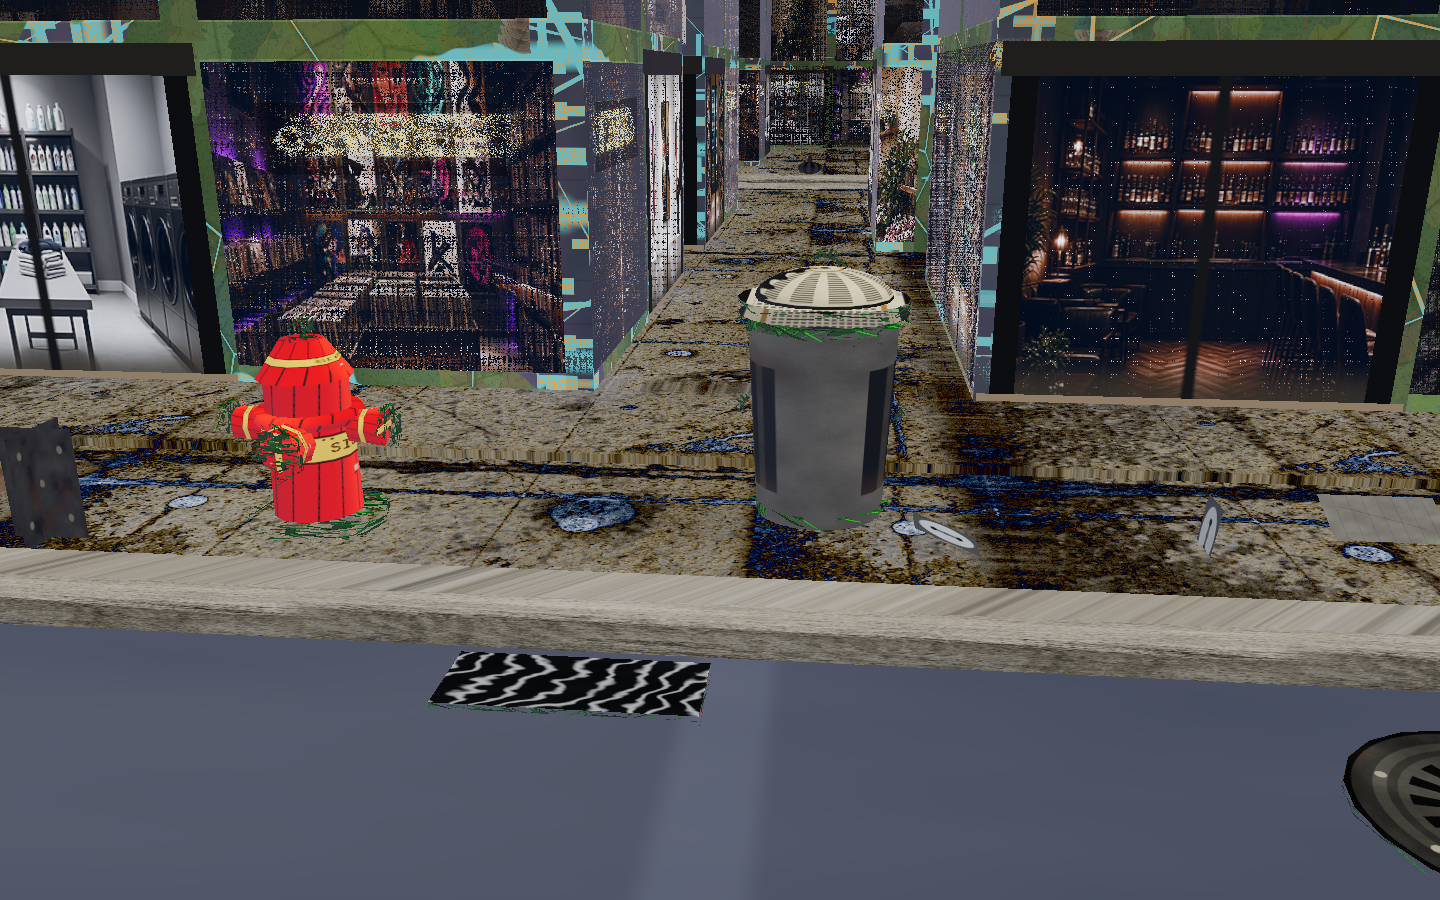
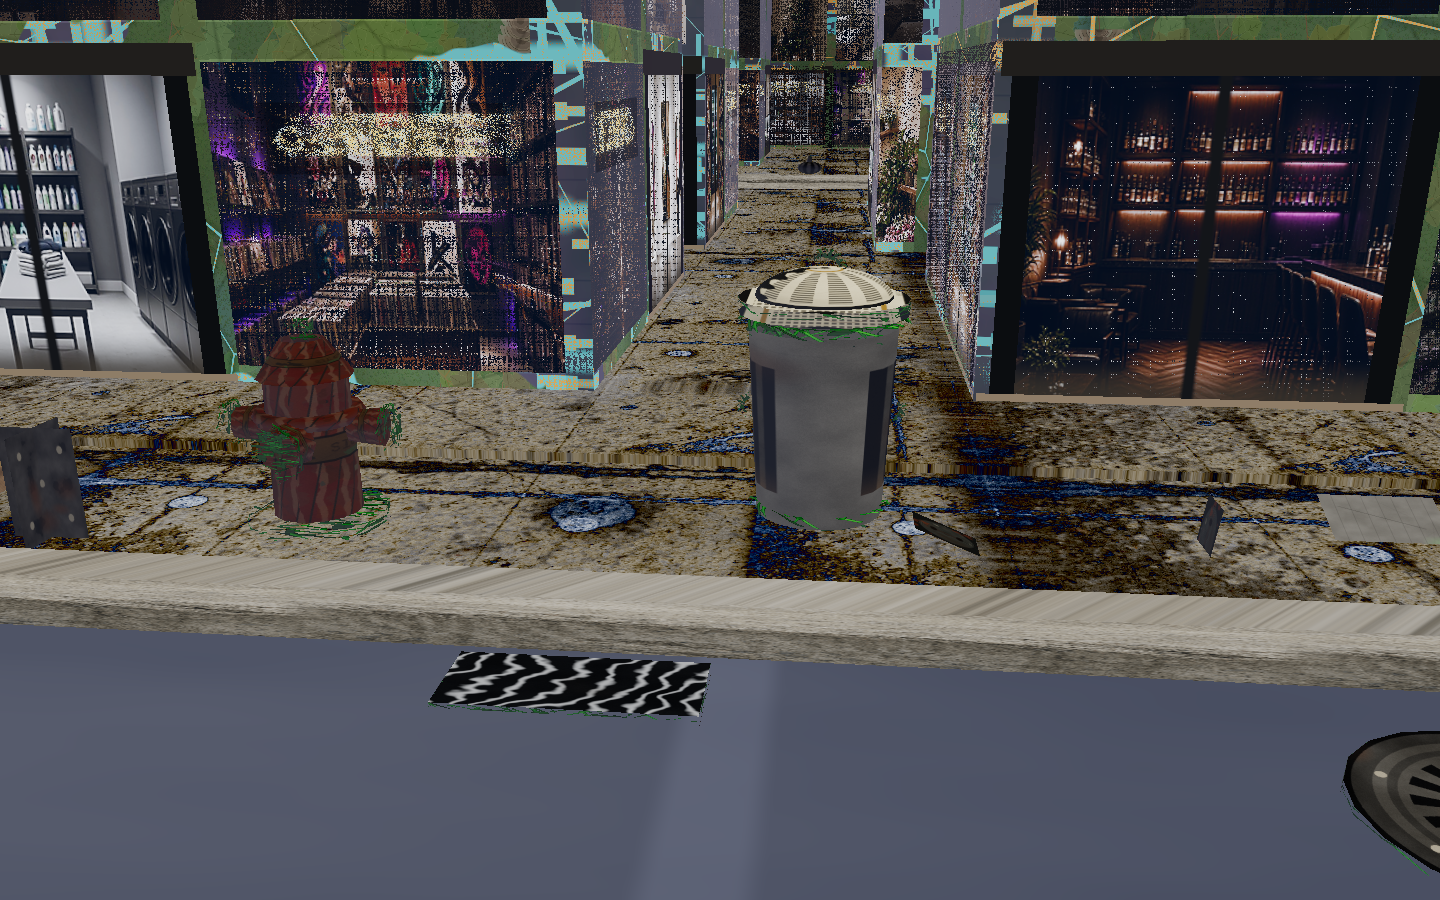
Harbor: weather the can and hydrant atlas cells
Dull zinc, faded red, rust bloom, chips, salt, and street dirt on the shared sheet. Silhouettes stay. Quay crate, iron, and deck are untouched.

diff --git a/harbor.html b/harbor.html
@@ -7177,7 +7177,7 @@ streetClutter = mountStreetClutter({
   world: physWorld,
   CANNON,
   enabled: streetClutterOn,
-  atlasUrl: new URL('street-clutter-atlas.png' + (location.protocol === 'file:' ? '' : '?v=clutter2'), atlasBase).href,
+  atlasUrl: new URL('street-clutter-atlas.png' + (location.protocol === 'file:' ? '' : '?v=clutter4'), atlasBase).href,
   anchors: {
     streetW: STREET_W,
     sidewalkW: SIDEWALK_W,

diff --git a/06-intermediate-assets/gen-street-clutter-atlas.py b/06-intermediate-assets/gen-street-clutter-atlas.py
@@ -243,27 +243,39 @@ def cell_throat(rng):
 
 
 def cell_can(rng):
-    """Galvanized bin wall. Vertical beads, hoops, bottom grime. QUAY is a stencil, not the form."""
+    """Dull zinc bin wall. Beads and hoops stay. Rust, salt, and dirt cover the whole wrap, heavier at the foot."""
     y, x = np.mgrid[0:N, 0:N]
-    n = fbm(N, rng, 4, 14)
-    arr = rgb((0.68, 0.70, 0.72), (n - 0.5) * 0.05)
+    n = fbm(N, rng, 5, 8)
+    grit = fbm(N, rng, 4, 14)
+    # Night grade multiplies this. Stay under ~0.32 or the beads read as new galvanize.
+    arr = rgb((0.24, 0.24, 0.22), (n - 0.5) * 0.08)
     period = N / 16.0
     phase = (x % period) / period
     groove = phase < 0.16
-    arr[groove] *= 0.32
+    arr[groove] *= 0.62
     bead = (phase >= 0.16) & (phase < 0.30)
-    arr[bead] = np.minimum(1.0, arr[bead] * 1.08 + 0.10)
+    arr[bead] = np.minimum(0.34, arr[bead] + 0.035)
     for yc, thick in ((0.07, 0.028), (0.20, 0.016), (0.80, 0.018), (0.93, 0.032)):
         band = np.abs(y / N - yc) < thick
-        arr[band] = arr[band] * 0.55 + np.array((0.28, 0.29, 0.31)) * 0.45
-    grime = np.clip((y / N - 0.70) / 0.30, 0, 1)
-    arr *= (1.0 - grime[..., None] * 0.62)
-    arr[:, :, 0] += grime * 0.08
-    dent = np.exp(-(((x - N * 0.38) / 36.0) ** 2 + ((y - N * 0.48) / 22.0) ** 2))
-    arr *= (1.0 - dent[:, :, None] * 0.28)
-    arr = stain(arr, rng, (0.32, 0.20, 0.10), 2, 0.18)
-    img = to_image(np.clip(arr + grain(N, rng, 0.02)[:, :, None], 0, 1))
-    img = draw_mark(img, "QUAY", (N * 0.30, N * 0.36), 46, (36, 40, 44, 220), wear=0.18)
+        arr[band] = arr[band] * 0.22 + np.array((0.22, 0.13, 0.08)) * 0.78
+    grime = 0.22 + 0.55 * np.clip((y / N - 0.15) / 0.85, 0, 1)
+    arr *= (1.0 - grime[..., None] * 0.45)
+    rust_n = fbm(N, rng, 5, 5)
+    low = np.clip(y / N, 0, 1)
+    rust = (rust_n > 0.52) | ((np.abs(np.sin(x * 0.07 + rust_n * 4.0)) > 0.78) & (rust_n > 0.35))
+    m = np.where(rust, 0.55 + 0.35 * low, 0.12 * low)
+    rust_col = (0.34, 0.15, 0.07)
+    for i, c in enumerate(rust_col):
+        arr[:, :, i] = arr[:, :, i] * (1.0 - m) + c * m
+    salt = grit > 0.70
+    arr[salt] = arr[salt] * 0.55 + np.array((0.40, 0.38, 0.33)) * 0.45
+    arr = stain(arr, rng, (0.12, 0.10, 0.08), 6, 0.48)
+    arr = stain(arr, rng, (0.32, 0.14, 0.06), 4, 0.40)
+    dent = np.exp(-(((x - N * 0.38) / 42.0) ** 2 + ((y - N * 0.42) / 36.0) ** 2))
+    arr *= (1.0 - dent[:, :, None] * 0.32)
+    arr = scratches(arr, rng, 22, 0.18)
+    img = to_image(np.clip(arr + grain(N, rng, 0.025)[:, :, None], 0, 1))
+    img = draw_mark(img, "QUAY", (N * 0.28, N * 0.22), 40, (28, 24, 20, 170), wear=0.42)
     return img
 
 
@@ -283,21 +295,27 @@ def cell_dumpster(rng):
 
 
 def cell_lid(rng):
-    """Spun metal lid: concentric rings, dark lip, a bar handle."""
+    """Spun lid, dulled. Dirt sits in the rings; rust and salt sit on the lip."""
     y, x = np.mgrid[0:N, 0:N]
     cx = cy = (N - 1) / 2.0
     r = np.hypot(x - cx, y - cy)
-    n = fbm(N, rng, 3, 10)
-    arr = rgb((0.62, 0.64, 0.66), (n - 0.5) * 0.04)
+    n = fbm(N, rng, 4, 8)
+    arr = rgb((0.22, 0.22, 0.20), (n - 0.5) * 0.06)
     rings = np.sin(r * 0.42) > 0.15
-    arr[rings] *= 0.78
-    arr[r > N * 0.40] *= 0.48
-    arr[r < N * 0.07] *= 0.62
-    img = to_image(np.clip(arr, 0, 1))
+    arr[rings] *= 0.62
+    arr[r > N * 0.40] *= 0.55
+    arr[r < N * 0.07] *= 0.7
+    rust = (n > 0.68) & (r > N * 0.28)
+    arr[rust] = arr[rust] * 0.4 + np.array((0.38, 0.17, 0.08)) * 0.6
+    salt = (n < 0.22) & (r > N * 0.16) & (r < N * 0.42)
+    arr[salt] = arr[salt] * 0.5 + np.array((0.48, 0.46, 0.40)) * 0.5
+    arr = stain(arr, rng, (0.18, 0.14, 0.10), 4, 0.36)
+    arr = scratches(arr, rng, 12, 0.12)
+    img = to_image(np.clip(arr + grain(N, rng, 0.03)[:, :, None], 0, 1))
     draw = ImageDraw.Draw(img)
-    draw.rounded_rectangle((N * 0.30, N * 0.455, N * 0.70, N * 0.545), radius=10, fill=(78, 82, 86, 255))
-    draw.ellipse((N * 0.26, N * 0.42, N * 0.36, N * 0.58), fill=(36, 38, 42, 255))
-    draw.ellipse((N * 0.64, N * 0.42, N * 0.74, N * 0.58), fill=(36, 38, 42, 255))
+    draw.rounded_rectangle((N * 0.30, N * 0.455, N * 0.70, N * 0.545), radius=10, fill=(48, 42, 36, 255))
+    draw.ellipse((N * 0.26, N * 0.42, N * 0.36, N * 0.58), fill=(28, 24, 20, 255))
+    draw.ellipse((N * 0.64, N * 0.42, N * 0.74, N * 0.58), fill=(28, 24, 20, 255))
     return img
 
 
@@ -470,28 +488,38 @@ def cell_weeds(rng):
 
 
 def cell_hydrant(rng):
-    """Hard cast-iron red. Chips are edges, not a soft noise wash. SIGNAL sits on the collar band."""
+    """Faded quay red. Chips open onto iron; rust and salt do the rest. Collar is tarnished brass."""
     y, x = np.mgrid[0:N, 0:N]
-    n = fbm(N, rng, 4, 7)
-    arr = np.zeros((N, N, 3), np.float32)
-    arr[:] = (0.82, 0.10, 0.07)
-    chip = n < 0.20
-    arr[chip] = (0.15, 0.14, 0.13)
-    scratch = (np.abs(np.sin(x * 0.07 + y * 0.004)) > 0.992)
-    arr[scratch] = (0.18, 0.16, 0.14)
-    spec = np.exp(-((x / N - 0.30) ** 2) / 0.008)
-    arr += spec[:, :, None] * np.array((0.28, 0.06, 0.03))
+    n = fbm(N, rng, 5, 6)
+    grit = fbm(N, rng, 4, 11)
+    # Faded, chalky, and broken on the upper barrel too. The night grade lifts facing surfaces.
+    arr = rgb((0.28, 0.11, 0.08), (n - 0.5) * 0.05)
+    chalk = grit > 0.48
+    arr[chalk] = arr[chalk] * 0.62 + np.array((0.26, 0.18, 0.13)) * 0.38
+    chip = n < 0.38
+    arr[chip] = (0.12, 0.11, 0.10)
+    rust_n = fbm(N, rng, 4, 5)
+    rust = (rust_n > 0.48) | (chip & (rust_n > 0.30))
+    arr[rust] = arr[rust] * 0.28 + np.array((0.30, 0.13, 0.06)) * 0.72
+    streak = np.abs(np.sin(x * 0.07 + n * 2.4)) > 0.90
+    arr[streak] = arr[streak] * 0.55 + np.array((0.36, 0.32, 0.26)) * 0.45
+    scratch = (np.abs(np.sin(x * 0.08 + y * 0.012)) > 0.988)
+    arr[scratch] = (0.15, 0.12, 0.10)
     band = (y > N * 0.40) & (y < N * 0.57)
-    arr[band] = (0.86, 0.70, 0.30)
-    arr[band & chip] = (0.20, 0.16, 0.11)
+    arr[band] = (0.24, 0.17, 0.09)
+    patina = band & (grit > 0.64)
+    arr[patina] = (0.20, 0.24, 0.14)
+    arr[band & chip] = (0.15, 0.12, 0.09)
     edge = (np.abs(y - N * 0.40) < 4) | (np.abs(y - N * 0.57) < 4)
-    arr[edge] *= 0.35
-    # bolt heads under the collar
+    arr[edge] *= 0.42
     bolts = (np.abs(y - N * 0.68) < N * 0.018) & (((x / 64).astype(int) % 2) == 0) & (x > 40) & (x < N - 40)
     bolts &= ((x % 64) < 16)
-    arr[bolts] = (0.72, 0.70, 0.64)
-    img = to_image(np.clip(arr, 0, 1))
-    img = draw_mark(img, "SIGNAL", (N * 0.14, N * 0.43), 44, (48, 30, 8, 245), wear=0.06)
+    arr[bolts] = (0.28, 0.24, 0.18)
+    arr[bolts & (rust_n > 0.6)] = (0.32, 0.16, 0.08)
+    arr = stain(arr, rng, (0.14, 0.11, 0.08), 4, 0.30)
+    arr = scratches(arr, rng, 16, 0.16)
+    img = to_image(np.clip(arr + grain(N, rng, 0.028)[:, :, None], 0, 1))
+    img = draw_mark(img, "SIGNAL", (N * 0.14, N * 0.43), 42, (36, 24, 12, 210), wear=0.34)
     return img
 
 

diff --git a/noctuary-drills/STREET-CLUTTER.md b/noctuary-drills/STREET-CLUTTER.md
@@ -47,7 +47,9 @@ The hero cluster is the north walk of the center block (block column 2, quay row
 
 The ambiguous shape in the first stills was the tree-pit trunk. It was a timber cylinder on the bench-wood cell, topped with flat weed cards, so it read as a stake or a broken bench end between the can and the bench. That pole and crown are gone. The pit is only the well.
 
-Cans are a tapered galvanized bin: bead-and-hoop metal on the can cell, a rolled rim, an overhanging lid (spun-metal cell), a low dome, a bail, and two side lugs. Hydrant paint is a hard red with chips, a brass collar, bolt heads, and a small SIGNAL stencil — the silhouette is the barrel and the iron caps, not the sticker. Bags elsewhere are a tied sack. The hero cluster no longer parks a bag against the can.
+Cans are a tapered galvanized bin: bead-and-hoop metal on the can cell, a rolled rim, an overhanging lid (spun-metal cell), a low dome, a bail, and two side lugs. Hydrant paint keeps the barrel, iron caps, tarnished collar, bolt heads, and a small SIGNAL stencil — the silhouette is the hydrant, not the sticker. Bags elsewhere are a tied sack. The hero cluster no longer parks a bag against the can.
+
+The can, lid, and hydrant cells are night-quay wear, the same family as the street sheet and the freight graffiti: dull zinc, faded red, rust bloom, chips through to iron, salt crust, and street dirt. Not a new bin and not factory red. Silhouettes are unchanged.
 
 Flat covers, grates, litter, and cardboard are visual. Cans, dumpsters, hydrants, benches, planters, and the tree-well curb get a static box so a crate does not ghost through them. Those bodies are not in the grab/toss list and do not join the wind or spring hooks. Quay bodies sit a centimeter above the deck so they do not fight the promenade slab.
 
